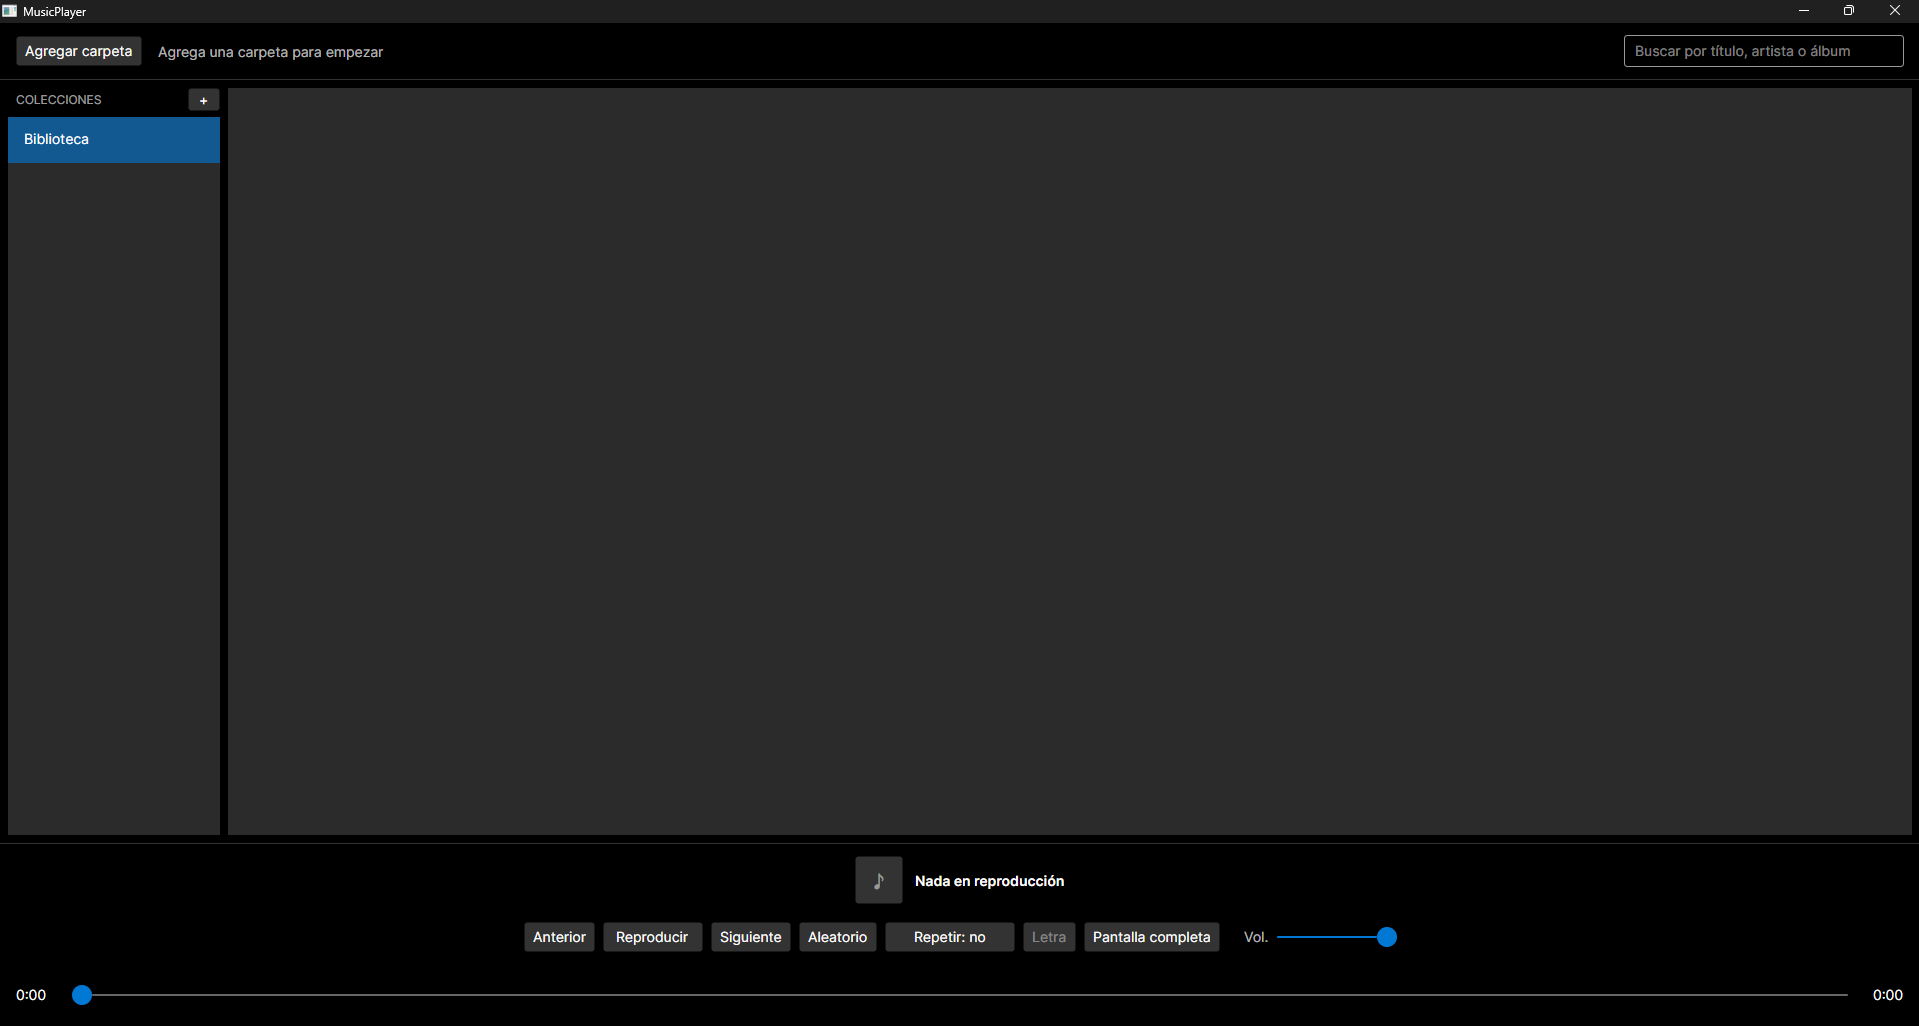
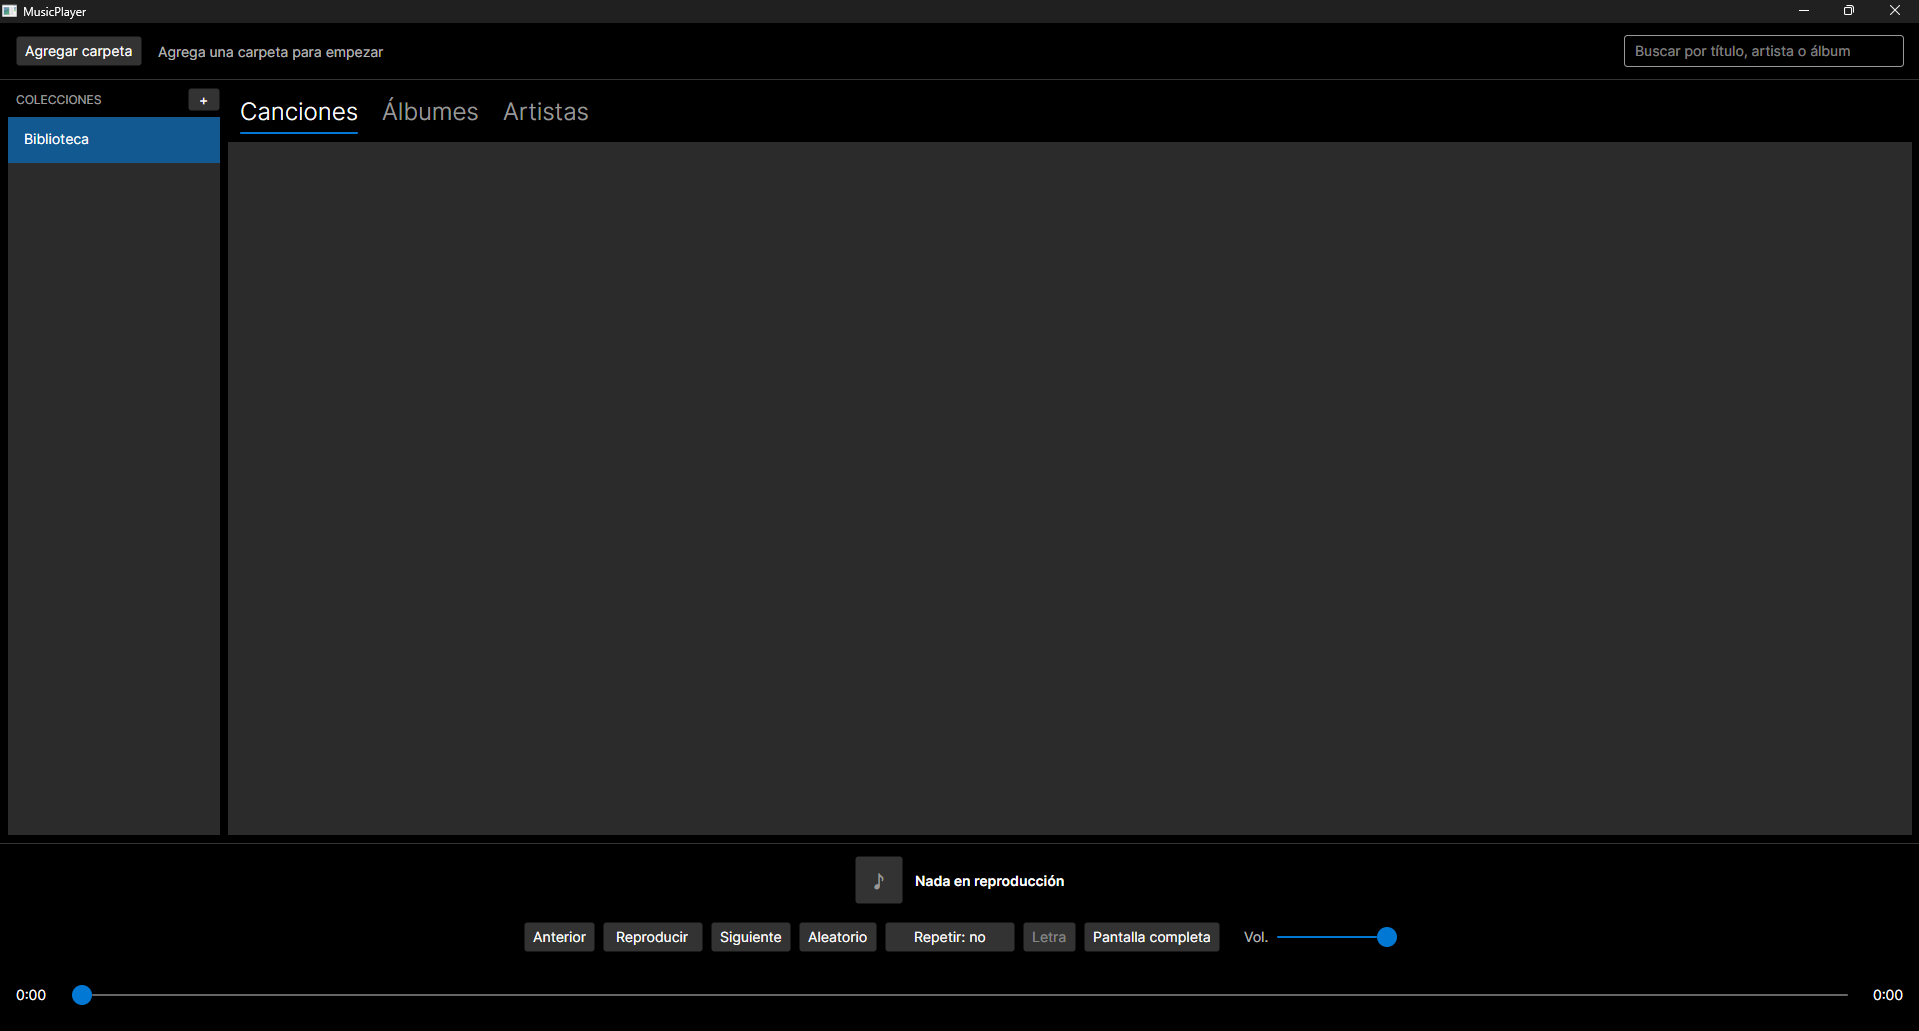
agrupar los álbumes por artista del álbum para que las recopilaciones se mantengan juntas

diff --git a/tests/MusicPlayer.Core.Tests/LibraryGrouperTests.cs b/tests/MusicPlayer.Core.Tests/LibraryGrouperTests.cs
@@ -6,17 +6,18 @@ namespace MusicPlayer.Core.Tests;
 public class LibraryGrouperTests
 {
     private static Track T(string title, string artist = "A", string album = "X",
-                           uint disc = 1, uint number = 1, uint year = 0) =>
-        new()
-        {
-            FilePath = $"{artist}/{album}/{title}",
-            Title = title,
-            Artist = artist,
-            Album = album,
-            DiscNumber = disc,
-            TrackNumber = number,
-            Year = year
-        };
+                       uint disc = 1, uint number = 1, uint year = 0, string albumArtist = "") =>
+    new()
+    {
+        FilePath = $"{artist}/{album}/{title}",
+        Title = title,
+        Artist = artist,
+        Album = album,
+        DiscNumber = disc,
+        TrackNumber = number,
+        Year = year,
+        AlbumArtist = albumArtist
+    };
 
     [Fact]
     public void GroupAlbums_SameAlbumIgnoringCaseAndSpaces_IsOneGroup()
@@ -122,5 +123,53 @@ public class LibraryGrouperTests
         Assert.Equal(
             LibraryGrouper.AlbumKey(T("1", artist: "Queen ", album: "Opera")),
             LibraryGrouper.AlbumKey(T("2", artist: "queen", album: " OPERA")));
+    }
+
+    [Fact]
+    public void GroupAlbums_Compilation_IsOneAlbumUnderTheAlbumArtistInTrackOrder()
+    {
+        var album = Assert.Single(LibraryGrouper.GroupAlbums(new[]
+        {
+        T("second", artist: "Abe", album: "Hits", number: 2, albumArtist: "Various Artists"),
+        T("first", artist: "Zed", album: "Hits", number: 1, albumArtist: "Various Artists"),
+    }));
+
+        Assert.Equal("Various Artists", album.Artist);
+        Assert.Equal(new[] { "first", "second" }, album.Tracks.Select(t => t.Title));
+    }
+
+    [Fact]
+    public void GroupAlbums_SomeTracksWithoutAlbumArtist_SplitTheAlbum()
+    {
+        // Limitación conocida: la etiqueta debe estar en todas las pistas del álbum.
+        var albums = LibraryGrouper.GroupAlbums(new[]
+        {
+        T("1", artist: "A", album: "Hits", albumArtist: "Various Artists"),
+        T("2", artist: "B", album: "Hits")
+    });
+
+        Assert.Equal(2, albums.Count);
+    }
+
+    [Fact]
+    public void GroupArtists_GroupsByAlbumArtist()
+    {
+        var artists = LibraryGrouper.GroupArtists(new[]
+        {
+        T("1", artist: "A", album: "Hits", albumArtist: "Various Artists"),
+        T("2", artist: "B", album: "Hits", albumArtist: "Various Artists"),
+        T("3", artist: "A", album: "Solo")
+    });
+
+        Assert.Equal(new[] { "A", "Various Artists" }, artists.Select(a => a.Name));
+        Assert.Equal(2, artists.Single(a => a.Name == "Various Artists").TrackCount);
+    }
+
+    [Fact]
+    public void AlbumKey_UsesTheAlbumArtistWhenPresent()
+    {
+        Assert.Equal(
+            LibraryGrouper.AlbumKey(T("1", artist: "A", album: "Hits", albumArtist: "Various Artists")),
+            LibraryGrouper.AlbumKey(T("2", artist: "B", album: "Hits", albumArtist: " various artists")));
     }
 }

diff --git a/src/MusicPlayer.Core/Services/LibraryGrouper.cs b/src/MusicPlayer.Core/Services/LibraryGrouper.cs
@@ -4,9 +4,9 @@ namespace MusicPlayer.Core.Services;
 
 public static class LibraryGrouper
 {
-    /// <summary>Identifica un álbum: artista y título, sin distinguir mayúsculas ni espacios de los extremos.</summary>
+    /// <summary>Identifica un álbum: artista del álbum y título, sin distinguir mayúsculas ni espacios de los extremos.</summary>
     public static string AlbumKey(Track track) =>
-        $"{track.Artist.Trim().ToLowerInvariant()}\u001F{track.Album.Trim().ToLowerInvariant()}";
+        $"{track.AlbumOwner.Trim().ToLowerInvariant()}\u001F{track.Album.Trim().ToLowerInvariant()}";
 
     /// <summary>Álbumes ordenados por artista, año (el desconocido al final) y título.</summary>
     public static IReadOnlyList<AlbumGroup> GroupAlbums(IEnumerable<Track> tracks) =>
@@ -15,17 +15,17 @@ public static class LibraryGrouper
               {
                   var sorted = TrackSorter.Sort(g); // disco, pista y título
                   var year = sorted.Select(t => t.Year).Where(y => y > 0).DefaultIfEmpty(0u).Min();
-                  return new AlbumGroup(g.Key, sorted[0].Artist.Trim(), sorted[0].Album.Trim(), year, sorted);
+                  return new AlbumGroup(g.Key, sorted[0].AlbumOwner.Trim(), sorted[0].Album.Trim(), year, sorted);
               })
               .OrderBy(a => a.Artist, StringComparer.CurrentCultureIgnoreCase)
               .ThenBy(a => a.Year == 0 ? uint.MaxValue : a.Year)
               .ThenBy(a => a.Album, StringComparer.CurrentCultureIgnoreCase)
               .ToList();
 
-    /// <summary>Artistas por nombre, cada uno con sus álbumes.</summary>
+    /// <summary>Artistas del álbum por nombre, cada uno con sus álbumes.</summary>
     public static IReadOnlyList<ArtistGroup> GroupArtists(IEnumerable<Track> tracks) =>
-        tracks.GroupBy(t => t.Artist.Trim().ToLowerInvariant())
-              .Select(g => new ArtistGroup(g.First().Artist.Trim(), GroupAlbums(g)))
+        tracks.GroupBy(t => t.AlbumOwner.Trim().ToLowerInvariant())
+              .Select(g => new ArtistGroup(g.First().AlbumOwner.Trim(), GroupAlbums(g)))
               .OrderBy(a => a.Name, StringComparer.CurrentCultureIgnoreCase)
               .ToList();
 }

diff --git a/src/MusicPlayer.Infrastructure/JsonLibraryRepository.cs b/src/MusicPlayer.Infrastructure/JsonLibraryRepository.cs
@@ -13,7 +13,7 @@ public sealed class JsonLibraryRepository(string filePath) : ILibraryRepository
 
     internal sealed record TrackRecord(
         Guid Id, string FilePath, string Title, string Artist, string Album,
-        uint Year, string? Genre, uint TrackNumber, long DurationTicks, DateTimeOffset AddedAt, uint DiscNumber = 0);
+        uint Year, string? Genre, uint TrackNumber, long DurationTicks, DateTimeOffset AddedAt, uint DiscNumber = 0, string? AlbumArtist = null);
 
     public async Task<LibrarySnapshot> LoadAsync(CancellationToken ct = default)
     {
@@ -39,7 +39,8 @@ public sealed class JsonLibraryRepository(string filePath) : ILibraryRepository
                 TrackNumber = r.TrackNumber,
                 Duration = TimeSpan.FromTicks(r.DurationTicks),
                 AddedAt = r.AddedAt,
-                DiscNumber = r.DiscNumber
+                DiscNumber = r.DiscNumber,
+                AlbumArtist = r.AlbumArtist ?? ""
             }).ToList();
 
             return new LibrarySnapshot(tracks, file.Folders ?? new());
@@ -62,7 +63,7 @@ public sealed class JsonLibraryRepository(string filePath) : ILibraryRepository
             snapshot.Folders.ToList(),
             snapshot.Tracks.Select(t => new TrackRecord(
                 t.Id, t.FilePath, t.Title, t.Artist, t.Album, t.Year,
-                t.Genre, t.TrackNumber, t.Duration.Ticks, t.AddedAt, t.DiscNumber)).ToList());
+                t.Genre, t.TrackNumber, t.Duration.Ticks, t.AddedAt, t.DiscNumber, t.AlbumArtist)).ToList());
 
         var tempPath = filePath + ".tmp";
         await using (var stream = File.Create(tempPath))

diff --git a/tests/MusicPlayer.Infrastructure.Tests/JsonLibraryRepositoryTests.cs b/tests/MusicPlayer.Infrastructure.Tests/JsonLibraryRepositoryTests.cs
@@ -21,7 +21,8 @@ public class JsonLibraryRepositoryTests : IDisposable
             Genre = "Rock",
             TrackNumber = 3,
             Duration = TimeSpan.FromSeconds(125.5),
-            DiscNumber = 2
+            DiscNumber = 2,
+            AlbumArtist = "Various Artists"
         };
 
         await new JsonLibraryRepository(FilePath)
@@ -37,6 +38,7 @@ public class JsonLibraryRepositoryTests : IDisposable
         Assert.Equal(track.Duration, t.Duration);
         Assert.Equal(track.AddedAt, t.AddedAt);
         Assert.Equal(2u, t.DiscNumber);
+        Assert.Equal("Various Artists", t.AlbumArtist);
         Assert.Equal(new[] { @"C:\Music" }, loaded.Folders);
     }
 
@@ -75,6 +77,7 @@ public class JsonLibraryRepositoryTests : IDisposable
         var loaded = await new JsonLibraryRepository(FilePath).LoadAsync();
 
         Assert.Equal(0u, Assert.Single(loaded.Tracks).DiscNumber);
+        Assert.Equal("", loaded.Tracks[0].AlbumArtist);
     }
 
     public void Dispose() => Directory.Delete(_dir, recursive: true);

diff --git a/tests/MusicPlayer.Core.Tests/TrackSorterTests.cs b/tests/MusicPlayer.Core.Tests/TrackSorterTests.cs
@@ -46,4 +46,22 @@ public class TrackSorterTests
 
         Assert.Equal(new[] { "3", "2", "1" }, sorted.Select(t => t.Title));
     }
+
+    [Fact]
+    public void Sort_CompilationFollowsTrackNumberNotTrackArtist()
+    {
+        Track C(string title, string artist, uint number) => new()
+        {
+            FilePath = title,
+            Title = title,
+            Artist = artist,
+            Album = "Hits",
+            AlbumArtist = "Various Artists",
+            TrackNumber = number
+        };
+
+        var sorted = TrackSorter.Sort(new[] { C("second", "Abe", 2), C("first", "Zed", 1) });
+
+        Assert.Equal(new[] { "first", "second" }, sorted.Select(t => t.Title));
+    }
 }

diff --git a/src/MusicPlayer.Core/Models/Track.cs b/src/MusicPlayer.Core/Models/Track.cs
@@ -11,6 +11,12 @@ public sealed record Track
     public string? Genre { get; init; }
     public uint TrackNumber { get; init; }
     public uint DiscNumber { get; init; }
+
+    /// <summary>Etiqueta "artista del álbum" (ALBUMARTIST). Vacía si el archivo no la tiene.</summary>
+    public string AlbumArtist { get; init; } = "";
+
+    /// <summary>Bajo quién se agrupa el álbum: su artista del álbum, o el de la pista si no hay.</summary>
+    public string AlbumOwner => string.IsNullOrWhiteSpace(AlbumArtist) ? Artist : AlbumArtist;
     public TimeSpan Duration { get; init; }
     public DateTimeOffset AddedAt { get; init; } = DateTimeOffset.UtcNow;
 }

diff --git a/src/MusicPlayer.Desktop/ViewModels/MainViewModel.cs b/src/MusicPlayer.Desktop/ViewModels/MainViewModel.cs
@@ -303,7 +303,7 @@ public partial class MainViewModel : ViewModelBase
                 .Select(g => new ArtistItemViewModel(g, _covers)));
             if (_artistScope is { } artist)
                 visible = visible.Where(i =>
-                    string.Equals(i.Track.Artist.Trim(), artist, StringComparison.OrdinalIgnoreCase)).ToList();
+                    string.Equals(i.Track.AlbumOwner.Trim(), artist, StringComparison.OrdinalIgnoreCase)).ToList();
             Albums = new(LibraryGrouper.GroupAlbums(visible.Select(i => i.Track))
                 .Select(g => new AlbumItemViewModel(g, _covers)));
             if (_albumScope is { } album)

diff --git a/src/MusicPlayer.Core/Services/TrackSorter.cs b/src/MusicPlayer.Core/Services/TrackSorter.cs
@@ -6,7 +6,7 @@ public static class TrackSorter
 {
     /// <summary>Artista, álbum, disco, pista y título. Sin etiqueta de disco (0) cuenta como disco 1.</summary>
     public static IReadOnlyList<Track> Sort(IEnumerable<Track> tracks) =>
-        tracks.OrderBy(t => t.Artist, StringComparer.CurrentCultureIgnoreCase)
+        tracks.OrderBy(t => t.AlbumOwner, StringComparer.CurrentCultureIgnoreCase)
               .ThenBy(t => t.Album, StringComparer.CurrentCultureIgnoreCase)
               .ThenBy(t => Math.Max(t.DiscNumber, 1u))
               .ThenBy(t => t.TrackNumber)

diff --git a/src/MusicPlayer.Infrastructure/TagLibTrackMetadataReader.cs b/src/MusicPlayer.Infrastructure/TagLibTrackMetadataReader.cs
@@ -20,6 +20,7 @@ public sealed class TagLibTrackMetadataReader : ITrackMetadataReader
                     ? Path.GetFileNameWithoutExtension(filePath)
                     : tag.Title.Trim(),
                 Artist = FirstNonEmpty(tag.FirstPerformer, tag.FirstAlbumArtist) ?? "Artista desconocido",
+                AlbumArtist = tag.FirstAlbumArtist?.Trim() ?? "",
                 Album = string.IsNullOrWhiteSpace(tag.Album) ? "Álbum desconocido" : tag.Album.Trim(),
                 Year = tag.Year,
                 Genre = tag.FirstGenre,

diff --git a/tests/MusicPlayer.Core.Tests/TrackFilterTests.cs b/tests/MusicPlayer.Core.Tests/TrackFilterTests.cs
@@ -50,4 +50,15 @@ public class TrackFilterTests
     {
         Assert.Empty(TrackFilter.Filter(Library, "zzz"));
     }
+
+    [Fact]
+    public void Filter_MatchesAlbumArtist()
+    {
+        var tracks = new[]
+        {
+        new Track { FilePath = "1", Title = "Song", Artist = "Someone", Album = "Hits", AlbumArtist = "Various Artists" }
+    };
+
+        Assert.Single(TrackFilter.Filter(tracks, "various"));
+    }
 }

diff --git a/src/MusicPlayer.Core/Services/TrackFilter.cs b/src/MusicPlayer.Core/Services/TrackFilter.cs
@@ -20,6 +20,7 @@ public static class TrackFilter
     private static bool Matches(CompareInfo compare, Track track, string term) =>
         Contains(compare, track.Title, term)
         || Contains(compare, track.Artist, term)
+        || Contains(compare, track.AlbumArtist, term)
         || Contains(compare, track.Album, term);
 
     private static bool Contains(CompareInfo compare, string? text, string term) =>

diff --git a/README.md b/README.md
@@ -23,7 +23,7 @@ inversión de dependencias y pruebas unitarias**. No usa servicios de streaming.
 - **Carátulas bajo demanda** (incrustadas o `cover.jpg`) con caché LRU.
 - **Ajustes persistentes:** volumen, opciones de letra, aleatorio, repetir y última canción.
 - **Detecta archivos movidos o borrados:** se marcan como no disponibles, se saltan al reproducir y se pueden limpiar de la biblioteca y las playlists.
-- **Navegación por artista y álbum:** artistas → álbumes por año → pistas en orden de disco y número, con carátulas y reproducción del álbum o de la discografía.
+- **Navegación por artista y álbum:** artistas del álbum → álbumes por año → pistas en orden de disco y número. Los recopilatorios se agrupan con la etiqueta "artista del álbum".
 
 ## Arquitectura
 
@@ -98,7 +98,6 @@ o `~/.config/MusicPlayer` (Linux).
 ## Hoja de ruta
 
 - Teclas multimedia del sistema
-- Vistas por artista y álbum
 - Editor de etiquetas
 
 ## Licencias
